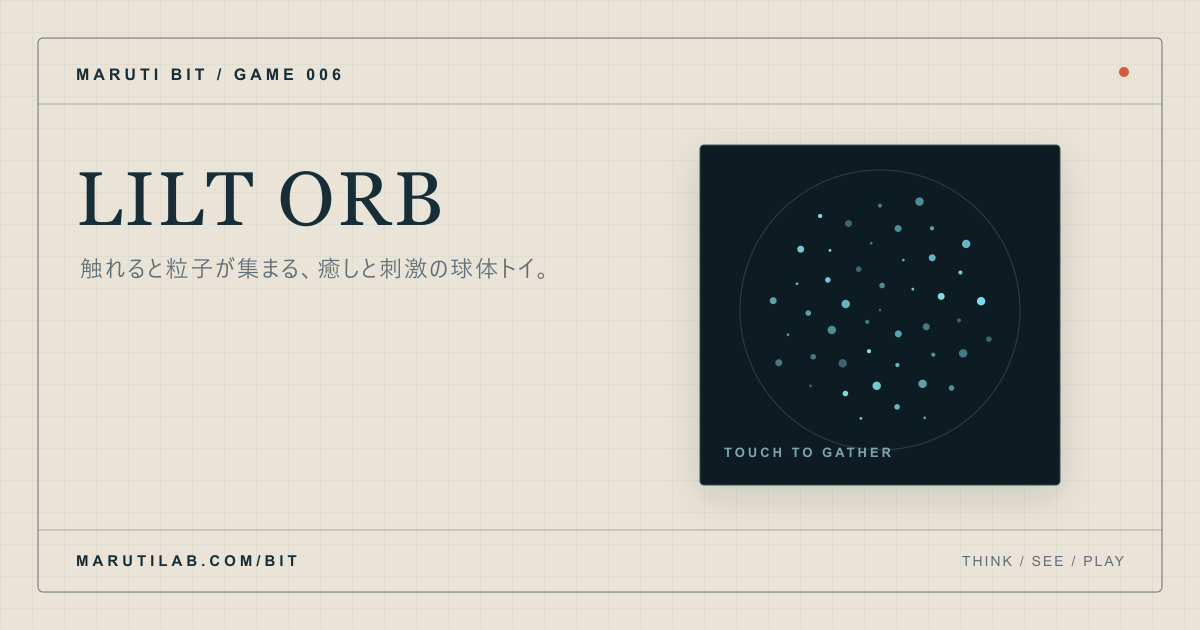
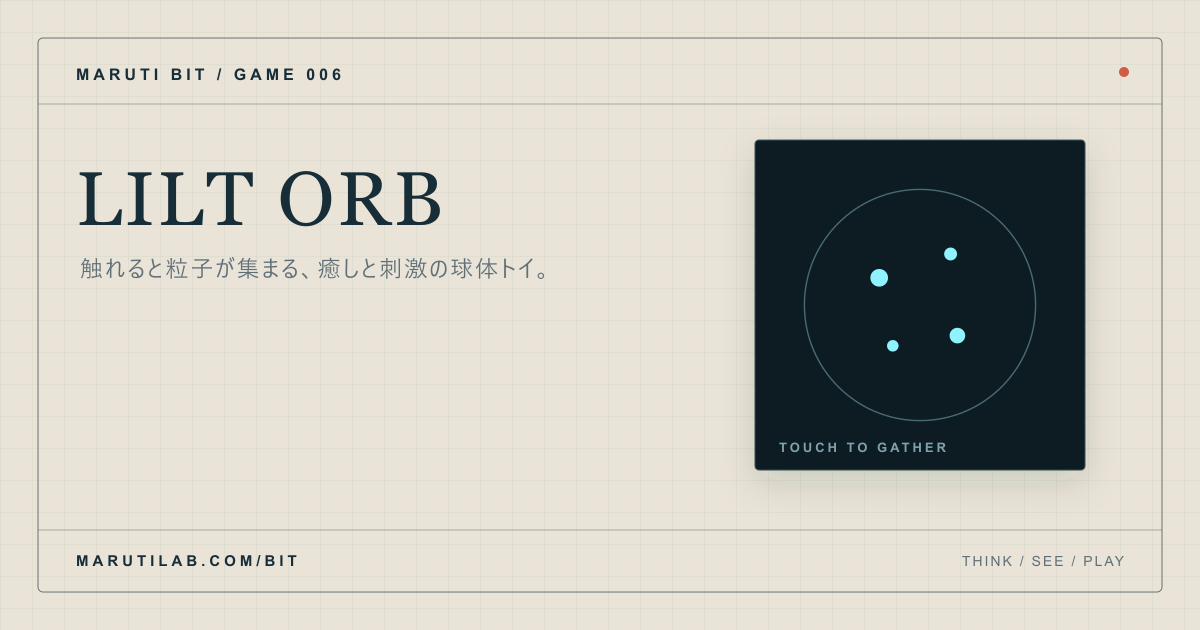
Rebuild LILT ORB's OGP from its actual thumbnail, add a square variant
The landscape OGP used an unrelated scattered-dot illustration; redrew
it to mirror the real /bit hub card icon exactly (ring + 4 particle
dots, same shape as GameVisual's "liltorb" case in BitHub.tsx), just
scaled up. Also added a 630x630 square variant, since unfurlers like
Slack/Discord/LINE prefer or fall back to a 1:1 og:image - wired in as
a second entry in openGraph.images alongside the existing 1200x630 one.

diff --git a/app/bit/liltorb/page.tsx b/app/bit/liltorb/page.tsx
@@ -12,7 +12,10 @@ export const metadata: Metadata = {
     title: "MarutiBit — LILT ORB（粒子操作トイ）",
     description: "触れると粒子が集まる、癒しと刺激の球体トイ。",
     url: "/bit/liltorb",
-    images: [{ url: "/og/bit/liltorb.png", width: 1200, height: 630, alt: "MarutiBit LILT ORB" }],
+    images: [
+      { url: "/og/bit/liltorb.png", width: 1200, height: 630, alt: "MarutiBit LILT ORB" },
+      { url: "/og/bit/liltorb-square.png", width: 630, height: 630, alt: "MarutiBit LILT ORB" },
+    ],
   },
   twitter: {
     card: "summary_large_image",
